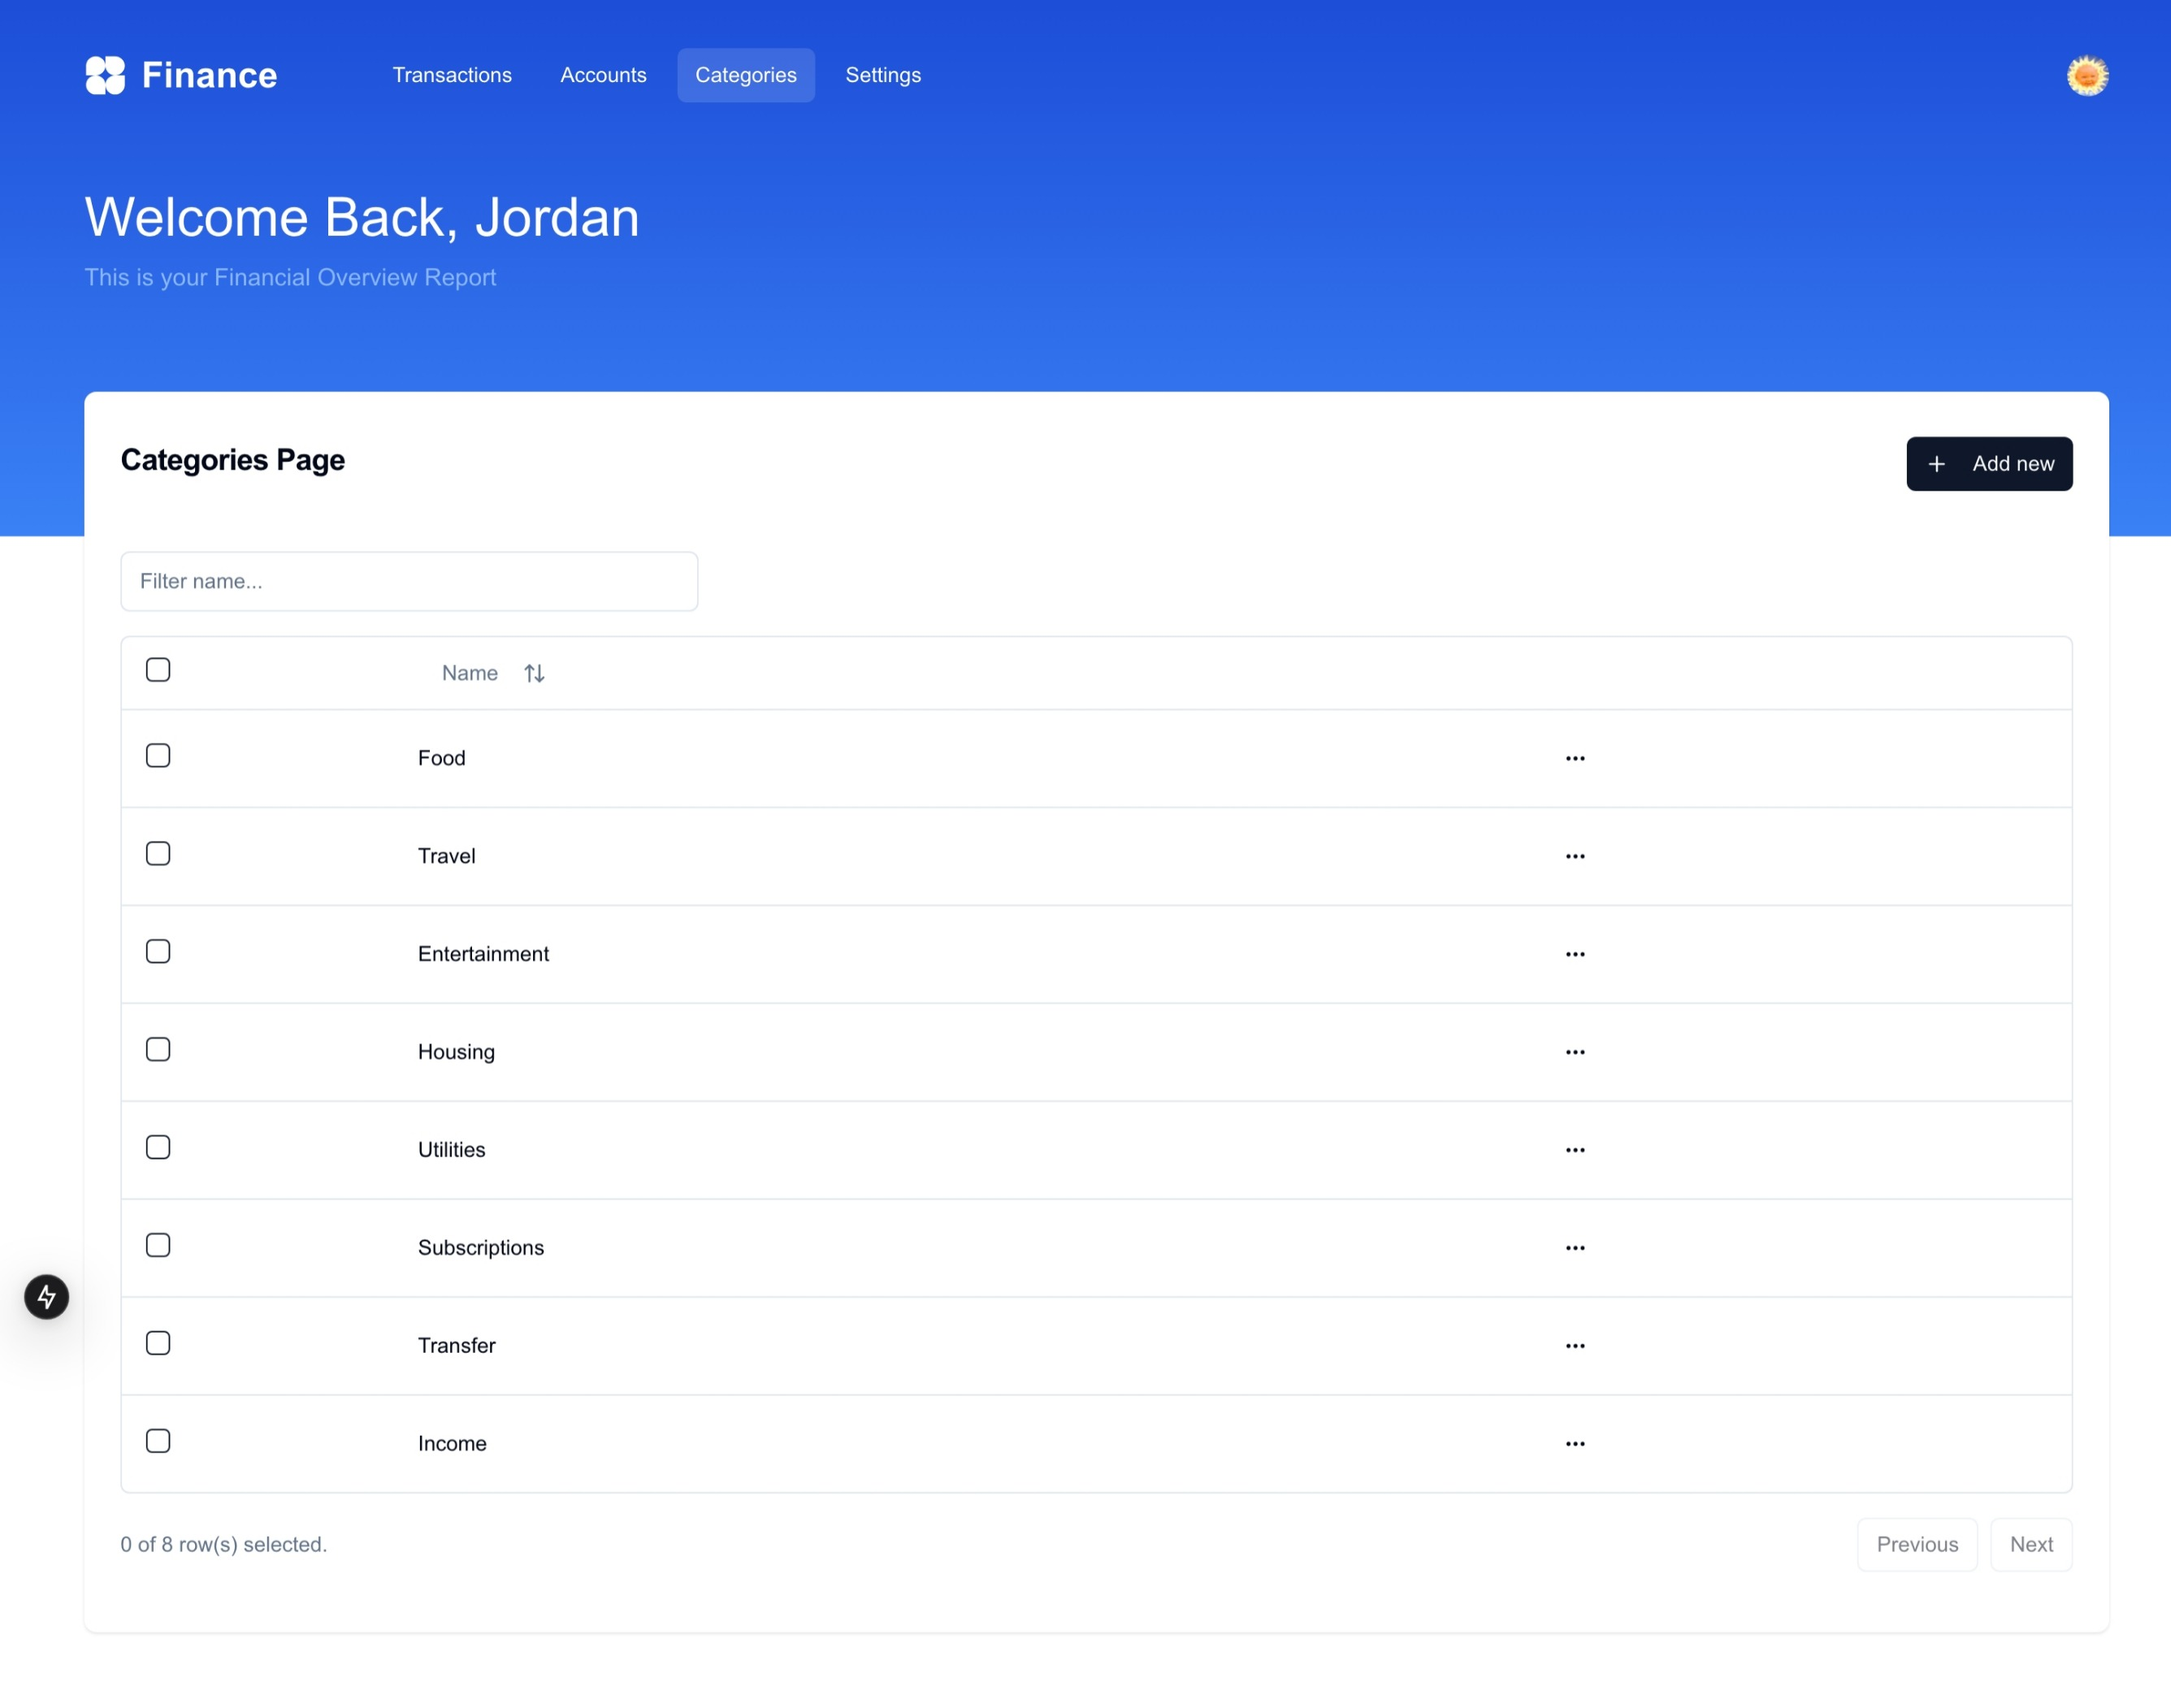
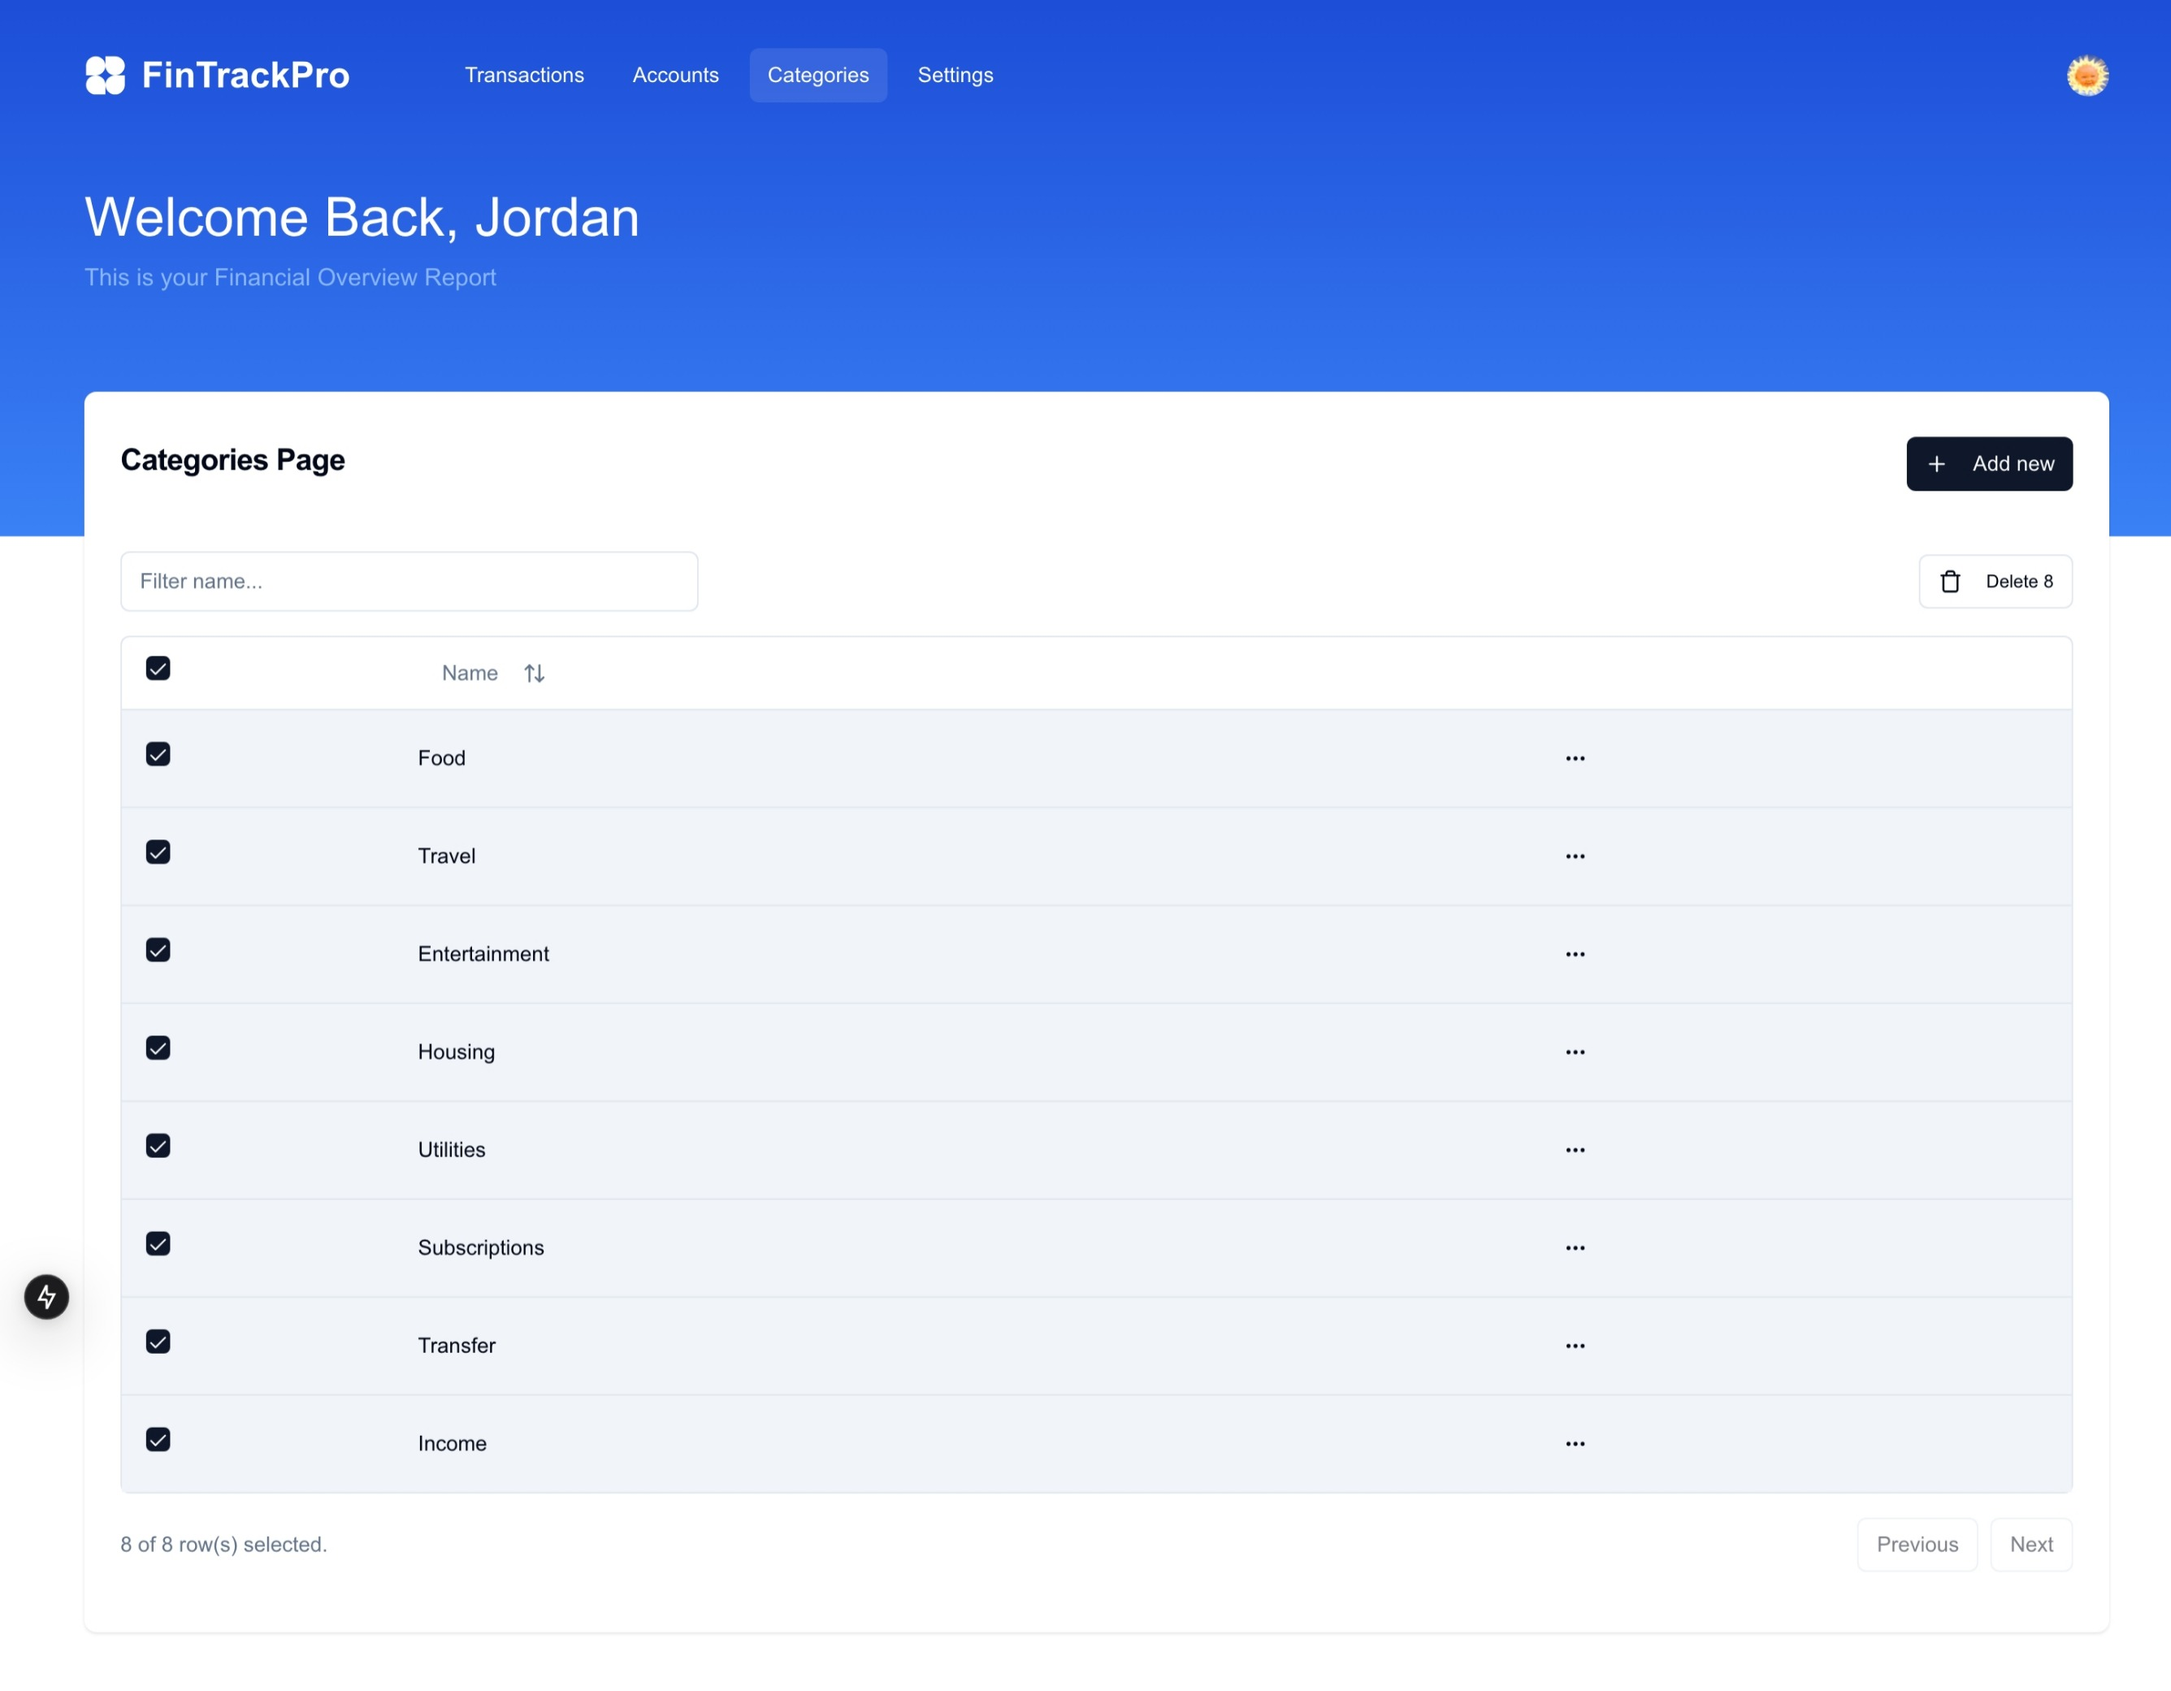
feat:transaction page

diff --git a/app/(auth)/sign-in/[[...sign-in]]/page.tsx b/app/(auth)/sign-in/[[...sign-in]]/page.tsx
@@ -24,7 +24,10 @@ const SignInPage = () => {
         </div>
       </div>
       <div className="h-full bg-blue-600 hidden lg:flex items-center justify-center">
-        <Image src="/logo.svg" height={100} width={100} alt="Logo" />
+        <div className="flex flex-col justify-center items-center">
+          <Image src="/logo.svg" height={100} width={100} alt="Logo" />
+          <span className="text-white text-xl">FinTrackPro</span>
+        </div>
       </div>
     </div>
   );

diff --git a/app/(auth)/sign-up/[[...sign-up]]/page.tsx b/app/(auth)/sign-up/[[...sign-up]]/page.tsx
@@ -24,7 +24,11 @@ const SignUpPage = () => {
         </div>
       </div>
       <div className="h-full bg-blue-600 hidden lg:flex items-center justify-center">
+      <div className="flex flex-col justify-center items-center">
         <Image src="/logo.svg" height={100} width={100} alt="Logo" />
+          <span
+          className="text-white text-xl">FinTrackPro</span>
+        </div>
       </div>
     </div>
   );

diff --git a/components/header-logo.tsx b/components/header-logo.tsx
@@ -7,7 +7,7 @@ export const HeaderLogo = () => {
       <div className="items-center hidden lg:flex">
         <Image src='/logo.svg' alt="Logo" height={28} width={28} />
         <p className="font-semibold text-white text-2xl ml-2.5">
-          Finance
+          FinTrackPro
         </p>
       </div>
     </Link>

diff --git a/app/layout.tsx b/app/layout.tsx
@@ -17,7 +17,7 @@ const geistMono = Geist_Mono({
 });
 
 export const metadata: Metadata = {
-  title: "Finance",
+  title: "FinTrackPro",
   description: "Generated by create next app",
   icons:[
     '/logo.svg'
